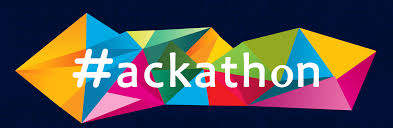
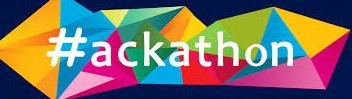
update

diff --git a/index.html b/index.html
@@ -23,7 +23,7 @@
 <header id="header_wrapper">
   <div class="container">
     <div class="header_box">
-      <div class="logo"><a href="#"><img src="img/HA.jpeg" alt="HACK A THON"></a></div>
+      <div class="logo"><a href="#"><img src="img/HA.jpeg" alt="HACK A THON" style="width:15em;height:50px;"></a></div>
 	  <nav class="navbar navbar-inverse" role="navigation">
       <div class="navbar-header">
         <button type="button" id="nav-toggle" class="navbar-toggle" data-toggle="collapse" data-target="#main-nav"> <span class="sr-only">Toggle navigation</span> <span class="icon-bar"></span> <span class="icon-bar"></span> <span class="icon-bar"></span> </button>
@@ -53,6 +53,8 @@
 <section id="hero_section" class="top_cont_outer">
   <div class="hero_wrapper">
     <div class="container">
+<div style='height:50px'></div>
+;<div id='to-be-sized' ></div><br>
       <div class="hero_section">
         <div class="row">
           <div class="col-lg-5 col-sm-7">
@@ -62,7 +64,7 @@
               <a href="#service" class="read_more2">Read more</a> </div>
           </div>
           <div>
-			<img src="img/H1.jpeg" class="bannerImg zoomIn wow animated" alt=""height="430" width="650" />
+			<img src="img/H1.jpeg" class="bannerImg zoomIn wow animated" alt=""height="500px" width="650px" />
 		  </div>
         </div>
       </div>
@@ -74,6 +76,7 @@
 <section id="aboutUs"><!--Aboutus-->sec
 <div class="inner_wrapper">
   <div class="container">
+
     <h2>About Us</h2>
     <div class="inner_section">
 	<div class="row">
